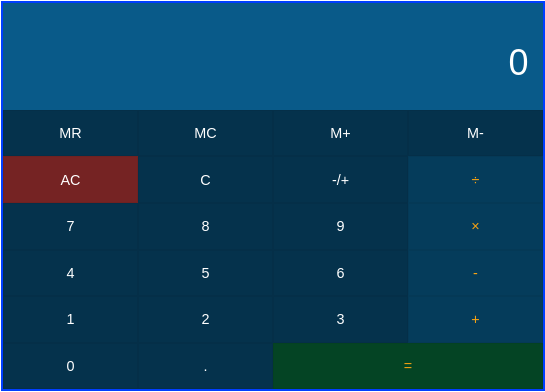
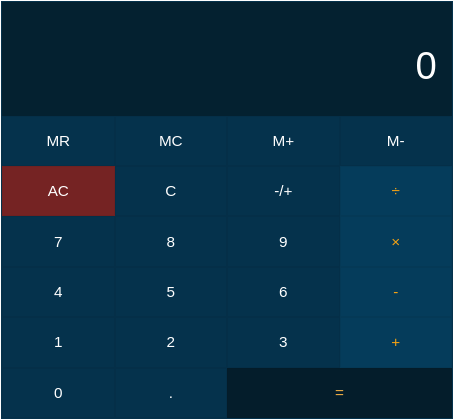
change color display

diff --git a/src/components/App/App.tsx b/src/components/App/App.tsx
@@ -11,7 +11,7 @@ const CalcStyledApp = styled.div`
         "Segoe UI Emoji", "Segoe UI Symbol";
     font-size: 17px;
     width: 100%;
-    border: 2px solid rgb(0, 63, 255);
+    border: 1px solid #05324c;
 	max-width: 500px;
 `;
 
@@ -107,9 +107,9 @@ export const App: React.FC = (): JSX.Element => {
         }
 
         if (display !== "0") {
-            newDisplay = newDisplay + digit.toString();
+            newDisplay = newDisplay + String(digit);
         } else {
-            newDisplay = digit.toString();
+            newDisplay = String(digit);
         }
 
         setDisplay(newDisplay);
@@ -142,7 +142,6 @@ export const App: React.FC = (): JSX.Element => {
 	 * @return {void}
 	 */
     const onOperatorButtonClick = (operator: Operator):void => {
-		console.log('operator :>> ', operator);
 		const operand = Number(display);
 
         if (typeof pendingOperator !== "undefined" && !pendingOperand) {

diff --git a/src/components/Button/Button.tsx b/src/components/Button/Button.tsx
@@ -16,12 +16,12 @@ const colorDisplay = (color: ButtonProps["color"]) => {
             `;
         case "green":
             return css`
-                background-color: #044424;
-                color: #f7a313;
+                background-color: #041d2b;
+                color: #f2b046;
 
                 &:hover,
                 &:focus {
-                    background-color: #022d18;
+                    background-color: #03151e;
                 }
             `;
         case "dark":

diff --git a/src/components/Display/Display.tsx b/src/components/Display/Display.tsx
@@ -27,7 +27,7 @@ const ScreenStyle = styled.div`
 `;
 
 const DisplayStyled = styled.div`
-    background-color: #095a89;
+    background-color: #042130;
     color: #fff;
     padding: 1.5em 1em;
 `;
